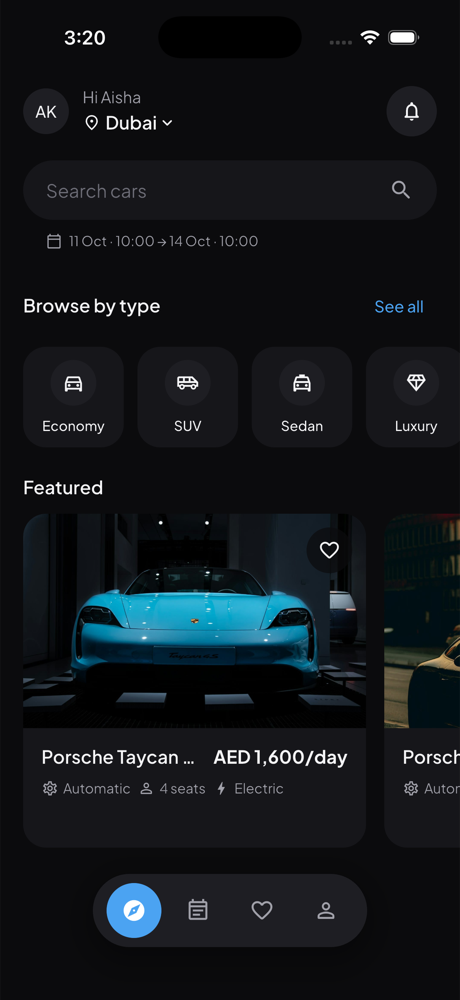
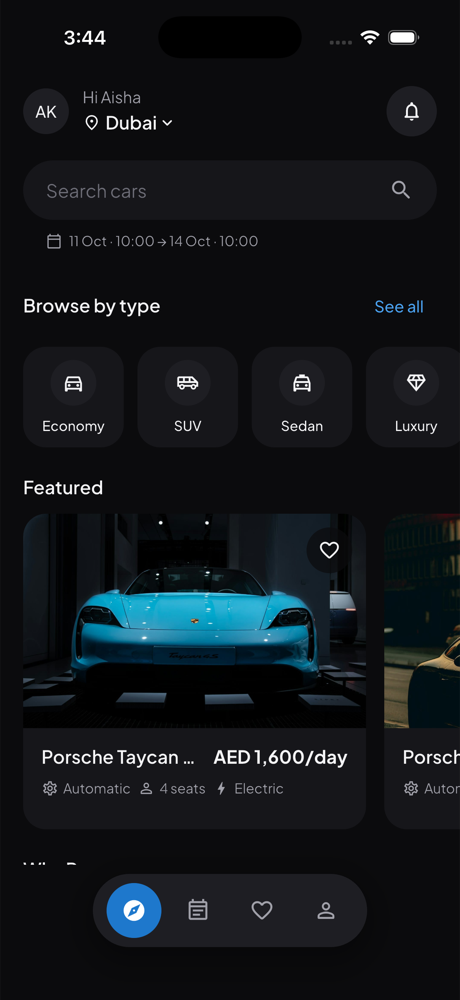
fix(ui): accent-fill for white-on-accent; mock featured flags match seed
- New token accentFill #1E78CC (DESIGN v2 coordinator decision, white on
  it ~4.6:1) for every fill behind white text/icons in both themes:
  filled buttons (incl. payment), active nav circle, selected category
  tile, active filter pill, booking tab indicator, chips, checkbox,
  switch, segmented control. #4BA3F2 stays for icons, hearts, links,
  dots and focus.
- Mock featured flags now match rove-backend/src/seed/data.ts exactly
  (8 AE + 8 IN), so mock Home opens like live.
- Trip city falls back to the profile's city before the country's first
  city (stale local preference no longer opens Home on Abu Dhabi).

Changed region(s): [[0.213, 0.868, 0.3652, 0.961], [0.1522, 0.031, 0.2435, 0.062]]

diff --git a/lib/shared/data/mock/mock_fixtures.dart b/lib/shared/data/mock/mock_fixtures.dart
@@ -173,7 +173,6 @@ final List<Map<String, dynamic>> mockVehicles = [
     mileage: 250,
     excessMinor: 100,
     photos: ['ae-mini-1.jpg'],
-    featured: true,
   ),
   _vehicle(
     id: 'c1d6b6a3-5c0a-4fa6-af53-6c7b8a9fad02',
@@ -194,8 +193,8 @@ final List<Map<String, dynamic>> mockVehicles = [
     deliveryFeeMinor: 7500,
     mileage: 250,
     excessMinor: 500,
-    photos: ['ae-g63-1.jpg', 'ae-g63-2.jpg'],
     featured: true,
+    photos: ['ae-g63-1.jpg', 'ae-g63-2.jpg'],
     weeklyDiscountBps: 1000,
     bookingMode: 'instant',
   ),
@@ -218,8 +217,8 @@ final List<Map<String, dynamic>> mockVehicles = [
     deliveryFeeMinor: 0,
     mileage: 200,
     excessMinor: 1500,
-    photos: ['ae-cullinan-1.jpg', 'ae-cullinan-2.jpg'],
     featured: true,
+    photos: ['ae-cullinan-1.jpg', 'ae-cullinan-2.jpg'],
     minRentalDays: 2,
   ),
   _vehicle(
@@ -241,6 +240,7 @@ final List<Map<String, dynamic>> mockVehicles = [
     deliveryFeeMinor: 0,
     mileage: null,
     excessMinor: 0,
+    featured: true,
     photos: ['ae-taycan-1.jpg'],
     fuelType: 'electric',
     bookingMode: 'instant',
@@ -264,6 +264,7 @@ final List<Map<String, dynamic>> mockVehicles = [
     deliveryFeeMinor: 6000,
     mileage: 250,
     excessMinor: 300,
+    featured: true,
     photos: ['ae-range-rover-1.jpg', 'ae-range-rover-2.jpg'],
   ),
   _vehicle(
@@ -306,8 +307,8 @@ final List<Map<String, dynamic>> mockVehicles = [
     deliveryFeeMinor: 10000,
     mileage: 200,
     excessMinor: 800,
-    photos: ['ae-911-1.jpg', 'ae-911-2.jpg'],
     featured: true,
+    photos: ['ae-911-1.jpg', 'ae-911-2.jpg'],
     minRentalDays: 2,
   ),
   _vehicle(
@@ -329,6 +330,7 @@ final List<Map<String, dynamic>> mockVehicles = [
     deliveryFeeMinor: 0,
     mileage: 200,
     excessMinor: 1200,
+    featured: true,
     photos: ['ae-ghost-1.jpg'],
     minRentalDays: 2,
   ),
@@ -351,8 +353,8 @@ final List<Map<String, dynamic>> mockVehicles = [
     deliveryFeeMinor: 15000,
     mileage: 200,
     excessMinor: 1000,
-    photos: ['ae-urus-1.jpg', 'ae-urus-2.jpg'],
     featured: true,
+    photos: ['ae-urus-1.jpg', 'ae-urus-2.jpg'],
     minRentalDays: 2,
   ),
   _vehicle(
@@ -374,6 +376,7 @@ final List<Map<String, dynamic>> mockVehicles = [
     deliveryFeeMinor: 5000,
     mileage: 250,
     excessMinor: 150,
+    featured: true,
     photos: ['ae-5series-1.jpg'],
     bookingMode: 'instant',
   ),
@@ -418,7 +421,6 @@ final List<Map<String, dynamic>> mockVehicles = [
     mileage: 250,
     excessMinor: 1500,
     photos: ['in-mini-1.jpg'],
-    featured: true,
   ),
   _vehicle(
     id: 'd2e7c7b4-6d1b-40b7-b064-7d8c9bab0e02',
@@ -439,8 +441,8 @@ final List<Map<String, dynamic>> mockVehicles = [
     deliveryFeeMinor: 100000,
     mileage: 250,
     excessMinor: 3000,
-    photos: ['in-x5-1.jpg'],
     featured: true,
+    photos: ['in-x5-1.jpg'],
     weeklyDiscountBps: 1000,
     bookingMode: 'instant',
   ),
@@ -463,6 +465,7 @@ final List<Map<String, dynamic>> mockVehicles = [
     deliveryFeeMinor: 0,
     mileage: 250,
     excessMinor: 2000,
+    featured: true,
     photos: ['in-3series-1.jpg'],
   ),
   _vehicle(
@@ -506,8 +509,8 @@ final List<Map<String, dynamic>> mockVehicles = [
     deliveryFeeMinor: 0,
     mileage: 150,
     excessMinor: 10000,
-    photos: ['in-huracan-1.jpg'],
     featured: true,
+    photos: ['in-huracan-1.jpg'],
     minRentalDays: 2,
   ),
   _vehicle(
@@ -529,8 +532,8 @@ final List<Map<String, dynamic>> mockVehicles = [
     deliveryFeeMinor: 0,
     mileage: 200,
     excessMinor: 12000,
-    photos: ['in-cullinan-1.jpg'],
     featured: true,
+    photos: ['in-cullinan-1.jpg'],
     minRentalDays: 2,
   ),
   _vehicle(
@@ -552,6 +555,7 @@ final List<Map<String, dynamic>> mockVehicles = [
     deliveryFeeMinor: 100000,
     mileage: null,
     excessMinor: 0,
+    featured: true,
     photos: ['in-taycan-1.jpg'],
     fuelType: 'electric',
     bookingMode: 'instant',
@@ -575,6 +579,7 @@ final List<Map<String, dynamic>> mockVehicles = [
     deliveryFeeMinor: 100000,
     mileage: 250,
     excessMinor: 4000,
+    featured: true,
     photos: ['in-sclass-1.jpg'],
   ),
   _vehicle(
@@ -596,6 +601,7 @@ final List<Map<String, dynamic>> mockVehicles = [
     deliveryFeeMinor: 150000,
     mileage: 300,
     excessMinor: 2500,
+    featured: true,
     photos: ['in-defender-1.jpg'],
     fuelType: 'diesel',
   ),
@@ -618,6 +624,7 @@ final List<Map<String, dynamic>> mockVehicles = [
     deliveryFeeMinor: 100000,
     mileage: 250,
     excessMinor: 3500,
+    featured: true,
     photos: ['in-rr-sport-1.jpg', 'in-rr-sport-2.jpg'],
   ),
   _vehicle(

diff --git a/lib/app/theme/rove_theme.dart b/lib/app/theme/rove_theme.dart
@@ -89,7 +89,7 @@ abstract final class RoveTheme {
       ),
       filledButtonTheme: FilledButtonThemeData(
         style: FilledButton.styleFrom(
-          backgroundColor: c.primary,
+          backgroundColor: c.accentFill,
           foregroundColor: c.onPrimary,
           disabledBackgroundColor: c.inputFill,
           disabledForegroundColor: c.textTertiary,
@@ -153,7 +153,7 @@ abstract final class RoveTheme {
       ),
       chipTheme: ChipThemeData(
         backgroundColor: c.inputFill,
-        selectedColor: c.primary,
+        selectedColor: c.accentFill,
         side: BorderSide.none,
         shape: pill,
         labelStyle: text.bodyMedium,
@@ -207,13 +207,13 @@ abstract final class RoveTheme {
       switchTheme: SwitchThemeData(
         thumbColor: WidgetStateProperty.all(Colors.white),
         trackColor: WidgetStateProperty.resolveWith(
-          (s) => s.contains(WidgetState.selected) ? c.primary : c.surface3,
+          (s) => s.contains(WidgetState.selected) ? c.accentFill : c.surface3,
         ),
         trackOutlineColor: WidgetStateProperty.all(Colors.transparent),
       ),
       checkboxTheme: CheckboxThemeData(
         fillColor: WidgetStateProperty.resolveWith(
-          (s) => s.contains(WidgetState.selected) ? c.primary : null,
+          (s) => s.contains(WidgetState.selected) ? c.accentFill : null,
         ),
         checkColor: WidgetStateProperty.all(c.onPrimary),
         side: BorderSide(color: c.textTertiary, width: 1.5),
@@ -243,7 +243,7 @@ abstract final class RoveTheme {
         style: SegmentedButton.styleFrom(
           backgroundColor: c.inputFill,
           foregroundColor: c.textSecondary,
-          selectedBackgroundColor: c.primary,
+          selectedBackgroundColor: c.accentFill,
           selectedForegroundColor: c.onPrimary,
           side: BorderSide.none,
           shape: pill,

diff --git a/lib/app/theme/rove_tokens.dart b/lib/app/theme/rove_tokens.dart
@@ -17,6 +17,7 @@ class RovePalette extends ThemeExtension<RovePalette> {
     required this.primaryPressed,
     required this.primaryTint,
     required this.onPrimary,
+    required this.accentFill,
     required this.success,
     required this.successTint,
     required this.warning,
@@ -52,6 +53,11 @@ class RovePalette extends ThemeExtension<RovePalette> {
   final Color primaryTint;
   final Color onPrimary;
 
+  /// `accent-fill` — every fill behind white text or icons (filled buttons,
+  /// active nav circle, selected tiles/pills): white on it ≈ 4.6:1 (AA).
+  /// [primary] stays for icons, hearts, links, dots and focus.
+  final Color accentFill;
+
   final Color success;
   final Color successTint;
   final Color warning;
@@ -77,6 +83,7 @@ class RovePalette extends ThemeExtension<RovePalette> {
     primaryPressed: Color(0xFF3A91E0),
     primaryTint: Color(0x244BA3F2),
     onPrimary: Colors.white,
+    accentFill: Color(0xFF1E78CC),
     success: Color(0xFF34C77B),
     successTint: Color(0x2434C77B),
     warning: Color(0xFFF5A524),
@@ -101,6 +108,7 @@ class RovePalette extends ThemeExtension<RovePalette> {
     primaryPressed: Color(0xFF1A6FBC),
     primaryTint: Color(0x244BA3F2),
     onPrimary: Colors.white,
+    accentFill: Color(0xFF1E78CC),
     success: Color(0xFF1E9E5A),
     successTint: Color(0x2434C77B),
     warning: Color(0xFFB26B00),

diff --git a/lib/features/home/view/home_page.dart b/lib/features/home/view/home_page.dart
@@ -346,7 +346,7 @@ class _Categories extends StatelessWidget {
               child: AnimatedContainer(
                 duration: RoveMotion.fast,
                 decoration: BoxDecoration(
-                  color: selected ? c.primary : c.surface,
+                  color: selected ? c.accentFill : c.surface,
                   borderRadius: RoveRadius.cardAll,
                 ),
                 child: Material(
@@ -369,7 +369,7 @@ class _Categories extends StatelessWidget {
                             child: Icon(
                               _icons[category],
                               size: 20,
-                              color: selected ? c.primary : c.textPrimary,
+                              color: selected ? c.accentFill : c.textPrimary,
                             ),
                           ),
                           const SizedBox(height: 8),

diff --git a/lib/app/app.dart b/lib/app/app.dart
@@ -101,7 +101,12 @@ class _AppViewState extends State<_AppView> {
     if (code == null) return;
     final country = countries.byCode(code);
     final trip = context.read<TripCubit>();
-    final city = country?.cityById(prefs.cityId) ?? country?.cities.firstOrNull;
+    // Preferred city, else the profile's city, else the country's first.
+    final profileCity = context.read<AuthBloc>().state.me?.profile.cityId;
+    final city =
+        country?.cityById(prefs.cityId) ??
+        country?.cityById(profileCity) ??
+        country?.cities.firstOrNull;
     if (trip.state.countryCode != code || trip.state.city?.id != city?.id) {
       trip.setCountry(code, city: city);
     }

diff --git a/lib/features/trips/view/bookings_page.dart b/lib/features/trips/view/bookings_page.dart
@@ -42,7 +42,7 @@ class BookingsPage extends StatelessWidget {
                 dividerColor: Colors.transparent,
                 indicatorSize: TabBarIndicatorSize.tab,
                 indicator: BoxDecoration(
-                  color: context.colors.primary,
+                  color: context.colors.accentFill,
                   borderRadius: RoveRadius.pillAll,
                 ),
                 labelColor: context.colors.onPrimary,

diff --git a/lib/app/router.dart b/lib/app/router.dart
@@ -354,7 +354,7 @@ class _NavButton extends StatelessWidget {
         child: Padding(
           padding: const EdgeInsets.symmetric(horizontal: 4),
           child: Material(
-            color: selected ? c.primary : Colors.transparent,
+            color: selected ? c.accentFill : Colors.transparent,
             shape: const CircleBorder(),
             child: InkWell(
               customBorder: const CircleBorder(),

diff --git a/lib/features/search/view/search_results_page.dart b/lib/features/search/view/search_results_page.dart
@@ -262,7 +262,7 @@ class _ControlPill extends StatelessWidget {
     final c = context.colors;
     final fg = active ? c.onPrimary : c.textPrimary;
     return Material(
-      color: active ? c.primary : c.inputFill,
+      color: active ? c.accentFill : c.inputFill,
       shape: const StadiumBorder(),
       child: InkWell(
         customBorder: const StadiumBorder(),
